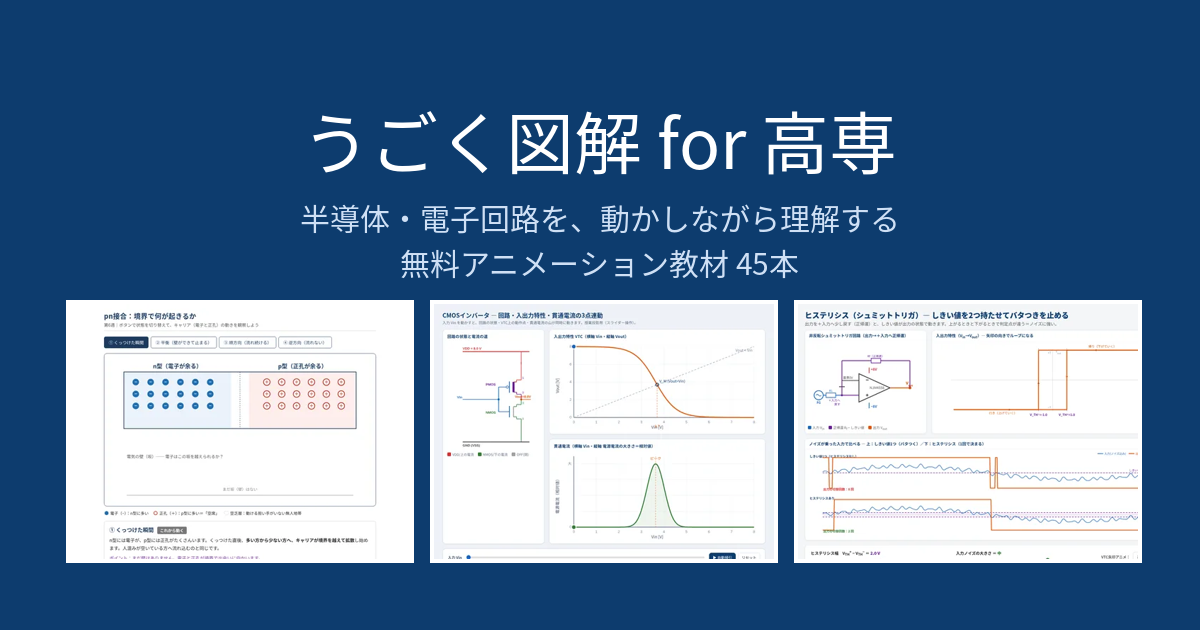
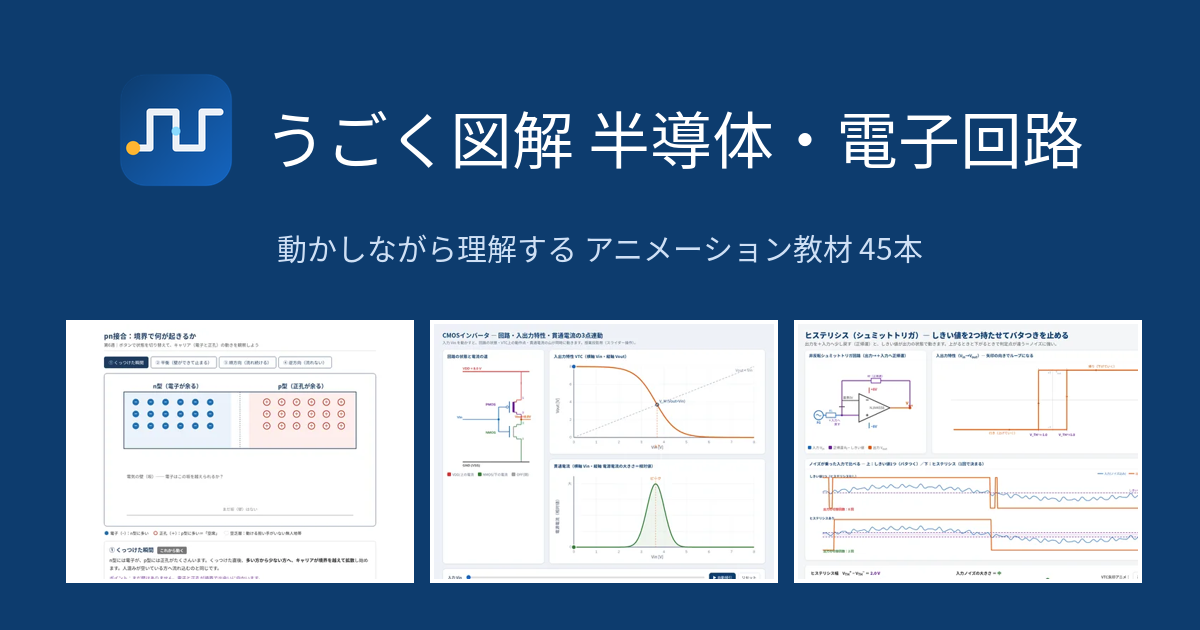
feat: サイト名を「うごく図解 半導体・電子回路」に変更し、ロゴ・ファビコンを追加
- SMILアニメーション付きロゴ (logo.svg) をヘッダーとファビコンに設定
- favicon.png (192px) / apple-touch-icon.png (180px) を生成
- og.png を新サイト名+ロゴ入りで再作成
- タイトル・OGP・JSON-LD・about/privacy を新名称に統一 (alternateNameに旧名を保持)
- キャッチコピーから「無料」表記を削除

Claude-Session: https://claude.ai/code/session_012BqN6mfwigBQs9jGy59drA

Changed region(s): [[0.0308, 0.3016, 0.9558, 0.9349], [0.0925, 0.1206, 0.925, 0.3016]]

diff --git a/index.html b/index.html
@@ -3,19 +3,22 @@
 <head>
 <meta charset="UTF-8">
 <meta name="viewport" content="width=device-width, initial-scale=1.0">
-<title>うごく図解 for 高専 | 半導体・電子回路をアニメーションでわかりやすく学ぶ無料教材</title>
-<meta name="description" content="pn接合・ダイオード・MOSFET・CMOS・オペアンプ・コンパレータのしくみを、スライダーやボタンで動かしながら学べる無料のアニメーション図解教材45本。高専・大学・工業高校の半導体工学と電子回路の予習・復習に。アプリ不要でスマホでも動きます。">
+<title>うごく図解 半導体・電子回路 | 高専・大学向けのアニメーション教材</title>
+<meta name="description" content="pn接合・ダイオード・MOSFET・CMOS・オペアンプ・コンパレータのしくみを、スライダーやボタンで動かしながら学べるアニメーション図解教材45本。高専・大学・工業高校の半導体工学と電子回路の予習・復習に。アプリ不要でスマホでも動きます。">
 <link rel="canonical" href="https://ugoku-zukai4kosen.com/">
+<link rel="icon" type="image/svg+xml" href="logo.svg">
+<link rel="icon" type="image/png" sizes="192x192" href="favicon.png">
+<link rel="apple-touch-icon" href="apple-touch-icon.png">
 <meta property="og:type" content="website">
-<meta property="og:title" content="うごく図解 for 高専 — 半導体・電子回路のアニメーション教材">
-<meta property="og:description" content="pn接合・MOSFET・CMOS・オペアンプ・コンパレータを動かしながら学べる無料のインタラクティブ図解45本。">
+<meta property="og:title" content="うごく図解 半導体・電子回路 — 動かしながら学ぶアニメ教材">
+<meta property="og:description" content="pn接合・MOSFET・CMOS・オペアンプ・コンパレータを動かしながら学べるインタラクティブ図解45本。">
 <meta property="og:url" content="https://ugoku-zukai4kosen.com/">
 <meta property="og:image" content="https://ugoku-zukai4kosen.com/og.png">
 <meta name="twitter:card" content="summary_large_image">
 <script type="application/ld+json">
-{"@context":"https://schema.org","@type":"WebSite","name":"うごく図解 for 高専",
+{"@context":"https://schema.org","@type":"WebSite","name":"うごく図解 半導体・電子回路","alternateName":"うごく図解 for 高専",
 "url":"https://ugoku-zukai4kosen.com/",
-"description":"半導体工学・電子回路のしくみをアニメーションで学べる無料のインタラクティブ図解教材集。pn接合、MOSFET、CMOSインバータ、オペアンプ、コンパレータなど45本を収録。"}
+"description":"半導体工学・電子回路のしくみをアニメーションで学べるインタラクティブ図解教材集。pn接合、MOSFET、CMOSインバータ、オペアンプ、コンパレータなど45本を収録。"}
 </script>
 <style>
   :root {
@@ -26,7 +29,10 @@
   body { margin: 0; font-family: "Hiragino Kaku Gothic ProN", "Noto Sans CJK JP", "Yu Gothic", sans-serif;
          color: var(--ink); background: var(--bg); line-height: 1.6; }
   header { background: #0d3c6e; color: #fff; padding: 36px 20px 28px; text-align: center; }
-  header h1 { margin: 0 0 8px; font-size: 1.9rem; }
+  header h1 { margin: 0; font-size: 1.9rem; }
+  .brand { display: flex; align-items: center; justify-content: center; gap: 14px; margin-bottom: 10px; flex-wrap: wrap; }
+  .brand img { display: block; }
+  .brand-sub { font-weight: 600; }
   header p { margin: 0; opacity: .85; font-size: .95rem; }
   main { max-width: 1080px; margin: 0 auto; padding: 24px 16px 64px; }
   .subject { margin-top: 40px; }
@@ -64,15 +70,18 @@
 </head>
 <body>
 <header>
-  <h1>うごく図解 for 高専</h1>
-  <p>半導体・電子回路のしくみを、動かしながら理解するインタラクティブ教材集</p>
+  <div class="brand">
+    <img src="logo.svg" alt="" width="56" height="56">
+    <h1>うごく図解 <span class="brand-sub">半導体・電子回路</span></h1>
+  </div>
+  <p>高専・大学の授業内容を、動かしながら理解するアニメーション教材集</p>
 </header>
 <main>
 
 <div class="howto">
   <p style="margin:0 0 8px; color:var(--ink);">
-  「うごく図解 for 高専」は、<strong>半導体工学</strong>と<strong>電子回路</strong>のしくみを
-  アニメーションで学べる無料のオンライン教材集です。pn接合・ダイオード・MOSFET・CMOSインバータ・
+  「うごく図解 半導体・電子回路」は、<strong>半導体工学</strong>と<strong>電子回路</strong>のしくみを
+  アニメーションで学べるオンライン教材集です。pn接合・ダイオード・MOSFET・CMOSインバータ・
   オペアンプ（反転増幅/非反転増幅）・コンパレータ・半導体製造プロセスまで、全45本を収録しています。</p>
   <p style="margin:0;">
   各図解はスライダー・タブ・ボタンで操作できます。PCでもスマホでも動きます（アプリ不要・その場で動作）。
@@ -310,7 +319,7 @@
 </section>
 
 <footer>
-  うごく図解 for 高専 — 教育目的での利用を歓迎します<br>
+  うごく図解 半導体・電子回路 — 教育目的での利用を歓迎します<br>
   <a href="about.html" style="color:var(--sub);">このサイトについて</a> ・
   <a href="privacy.html" style="color:var(--sub);">プライバシーポリシー</a>
 </footer>

diff --git a/about.html b/about.html
@@ -3,8 +3,11 @@
 <head>
 <meta charset="UTF-8">
 <meta name="viewport" content="width=device-width, initial-scale=1.0">
-<title>このサイトについて | うごく図解 for 高専</title>
-<meta name="description" content="「うごく図解 for 高専」の目的・対象・使い方・運営者情報・お問い合わせ先について。">
+<title>このサイトについて | うごく図解 半導体・電子回路</title>
+<meta name="description" content="「うごく図解 半導体・電子回路」の目的・対象・使い方・運営者情報・お問い合わせ先について。">
+<link rel="icon" type="image/svg+xml" href="logo.svg">
+<link rel="icon" type="image/png" sizes="192x192" href="favicon.png">
+<link rel="apple-touch-icon" href="apple-touch-icon.png">
 <link rel="canonical" href="https://ugoku-zukai4kosen.com/about.html">
 <style>
   :root { --ink:#1a2230; --sub:#5a6b82; --bg:#f7f8fa; --card:#fff; --blue:#1565c0; --line:#e3e7ee; }
@@ -28,12 +31,12 @@
 <body>
 <header>
   <h1>このサイトについて</h1>
-  <a href="./">← うごく図解 for 高専 トップへ</a>
+  <a href="./">← うごく図解 半導体・電子回路 トップへ</a>
 </header>
 <main>
 
 <h2>サイトの目的</h2>
-<p>「うごく図解 for 高専」は、半導体工学・電子回路の授業内容を<strong>アニメーションで動かしながら理解する</strong>ための無料教材集です。
+<p>「うごく図解 半導体・電子回路」は、半導体工学・電子回路の授業内容を<strong>アニメーションで動かしながら理解する</strong>ための教材集です。
 pn接合やMOSFET、オペアンプの動作は、教科書の静止画だけではイメージがつかみにくいもの。
 本サイトの図解は、スライダーやボタンで条件を変えると図がその場で応答するので、
 「電圧を上げるとどうなるか」を自分の手で確かめながら学べます。</p>

diff --git a/privacy.html b/privacy.html
@@ -3,8 +3,11 @@
 <head>
 <meta charset="UTF-8">
 <meta name="viewport" content="width=device-width, initial-scale=1.0">
-<title>プライバシーポリシー | うごく図解 for 高専</title>
-<meta name="description" content="うごく図解 for 高専のプライバシーポリシー。広告配信・Cookie・アクセス解析の取り扱いについて。">
+<title>プライバシーポリシー | うごく図解 半導体・電子回路</title>
+<meta name="description" content="うごく図解 半導体・電子回路のプライバシーポリシー。広告配信・Cookie・アクセス解析の取り扱いについて。">
+<link rel="icon" type="image/svg+xml" href="logo.svg">
+<link rel="icon" type="image/png" sizes="192x192" href="favicon.png">
+<link rel="apple-touch-icon" href="apple-touch-icon.png">
 <link rel="canonical" href="https://ugoku-zukai4kosen.com/privacy.html">
 <style>
   :root { --ink:#1a2230; --sub:#5a6b82; --bg:#f7f8fa; --card:#fff; --blue:#1565c0; --line:#e3e7ee; }
@@ -27,11 +30,11 @@
 <body>
 <header>
   <h1>プライバシーポリシー</h1>
-  <a href="./">← うごく図解 for 高専 トップへ</a>
+  <a href="./">← うごく図解 半導体・電子回路 トップへ</a>
 </header>
 <main>
 
-<p>「うごく図解 for 高専」(以下「当サイト」)における個人情報等の取り扱いについて、以下のとおり定めます。</p>
+<p>「うごく図解 半導体・電子回路」(以下「当サイト」)における個人情報等の取り扱いについて、以下のとおり定めます。</p>
 
 <h2>広告の配信について</h2>
 <p>当サイトでは、第三者配信の広告サービス「Google AdSense」を利用する場合があります。
